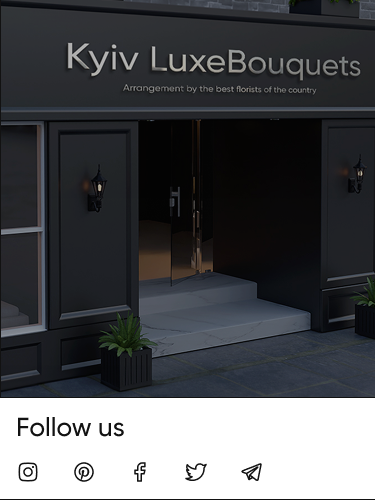
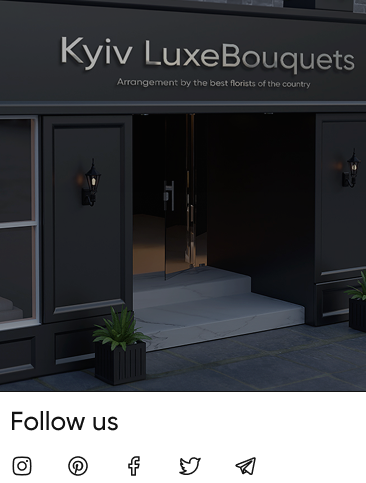
commit thirteen

diff --git a/frontend/src/Home.js b/frontend/src/Home.js
@@ -75,7 +75,7 @@ function Home() {
     </div>
   </div>
 </div>
-<div className="hero-wrapper">
+<div className="hero-section">
   <div className="body">
     <h1>
       Kyiv<br />
@@ -200,31 +200,36 @@ function Home() {
     <img src={rightColum} alt="colum" className="colum" />
   </div>
   <div className="left-section">
-    <div className="cnt">
-      <h1>To Contact Us</h1>
-      <h4>We will call you back</h4>
-      <input type="text" placeholder="+380 XXX XXX XXX" className="input-txt" />
-      <button className="button">Book a Call</button>
-    </div>
-    <div class="bottom-info">
-  <div class="phone">
-    <h1>Phone</h1>
-    <div class="phone-content">
-      <h4><img src={call} alt="call" class="call" /> +380980099777</h4>
-      <h4><img src={call} alt="call" class="call" /> +380980099111</h4>
-    </div>
+  <div className="cnt">
+    <h1>To Contact Us</h1>
+    <h4>We will call you back</h4>
+    <input type="text" placeholder="+380 XXX XXX XXX" className="input-txt" />
+    <button className="button">Book a Call</button>
   </div>
-  <div class="address">
-    <h1>Address</h1>
-    <div class="address-content">
-      <h4>Opening hours: 8 to 11 p.m.</h4>
-      <div class="address-line">
-        <img src={pin} alt="location" class="location" />
+
+  <div className="bottom-info-table">
+    <div className="row header-row">
+      <div className="cell header">Phone</div>
+      <div className="cell header">Address</div>
+    </div>
+    <div className="row">
+      <div className="cell">
+        <h4><img src={call} alt="call" className="call" /> +380980099777</h4>
+      </div>
+      <div className="cell">
+        <h4>Opening hours: 8 to 11 p.m.</h4>
+      </div>
+    </div>
+    <div className="row">
+      <div className="cell">
+        <h4><img src={call} alt="call" className="call" /> +380980099111</h4>
+      </div>
+      <div className="cell address-line">
+        <img src={pin} alt="location" className="location" />
         <h4>15/4 Khreshchatyk Street, Kyiv</h4>
       </div>
     </div>
   </div>
-</div> 
 </div>
 </div>
 <div className="our-service">

diff --git a/frontend/src/index.css b/frontend/src/index.css
@@ -949,6 +949,41 @@ img, svg, video, iframe {
     min-height: 100vh;
     align-items: center; 
   }
+  .bottom-info-table {
+    display: table;
+    width: 100%;
+    border: 2px solid #171718;
+    border-collapse: collapse;
+    margin-top: 40px;
+  }
+  .row {
+    display: table-row;
+  } 
+ .cell {
+    display: table-cell;
+    padding: 16px 20px;
+    border: 1px solid #171718;
+    vertical-align: top;
+  }
+  .header-row .cell {
+    font-weight: bold;
+    text-transform: uppercase;
+    letter-spacing: 1px;
+  }
+  .cell h4 {
+    margin: 0 0 10px;
+    font-size: 14px;
+    color: #222;
+    font-weight: normal;
+  }  
+  .call,
+  .location {
+    width: 16px;
+    height: 16px;
+    margin-right: 6px;
+    vertical-align: middle;
+  }
+  
   /* Tablet View */
 @media (min-width: 768px) and (max-width: 1023px) {
   .main-container {
@@ -1022,7 +1057,7 @@ img, svg, video, iframe {
   }
   /* Right heading border */
   .address h1 {
-    border-left: 2px solid #171718;
+    /* border-left: 2px solid #171718; */
   }
   /* Bottom Content */
   .phone-content, .address-content {
@@ -1030,7 +1065,7 @@ img, svg, video, iframe {
   }
   /* Right content  */
   .address-content {
-    border-left: 2px solid #171718;
+    /* border-left: 2px solid #171718; */
   }
   /* Content items space */
   .phone h4, .address h4 {
